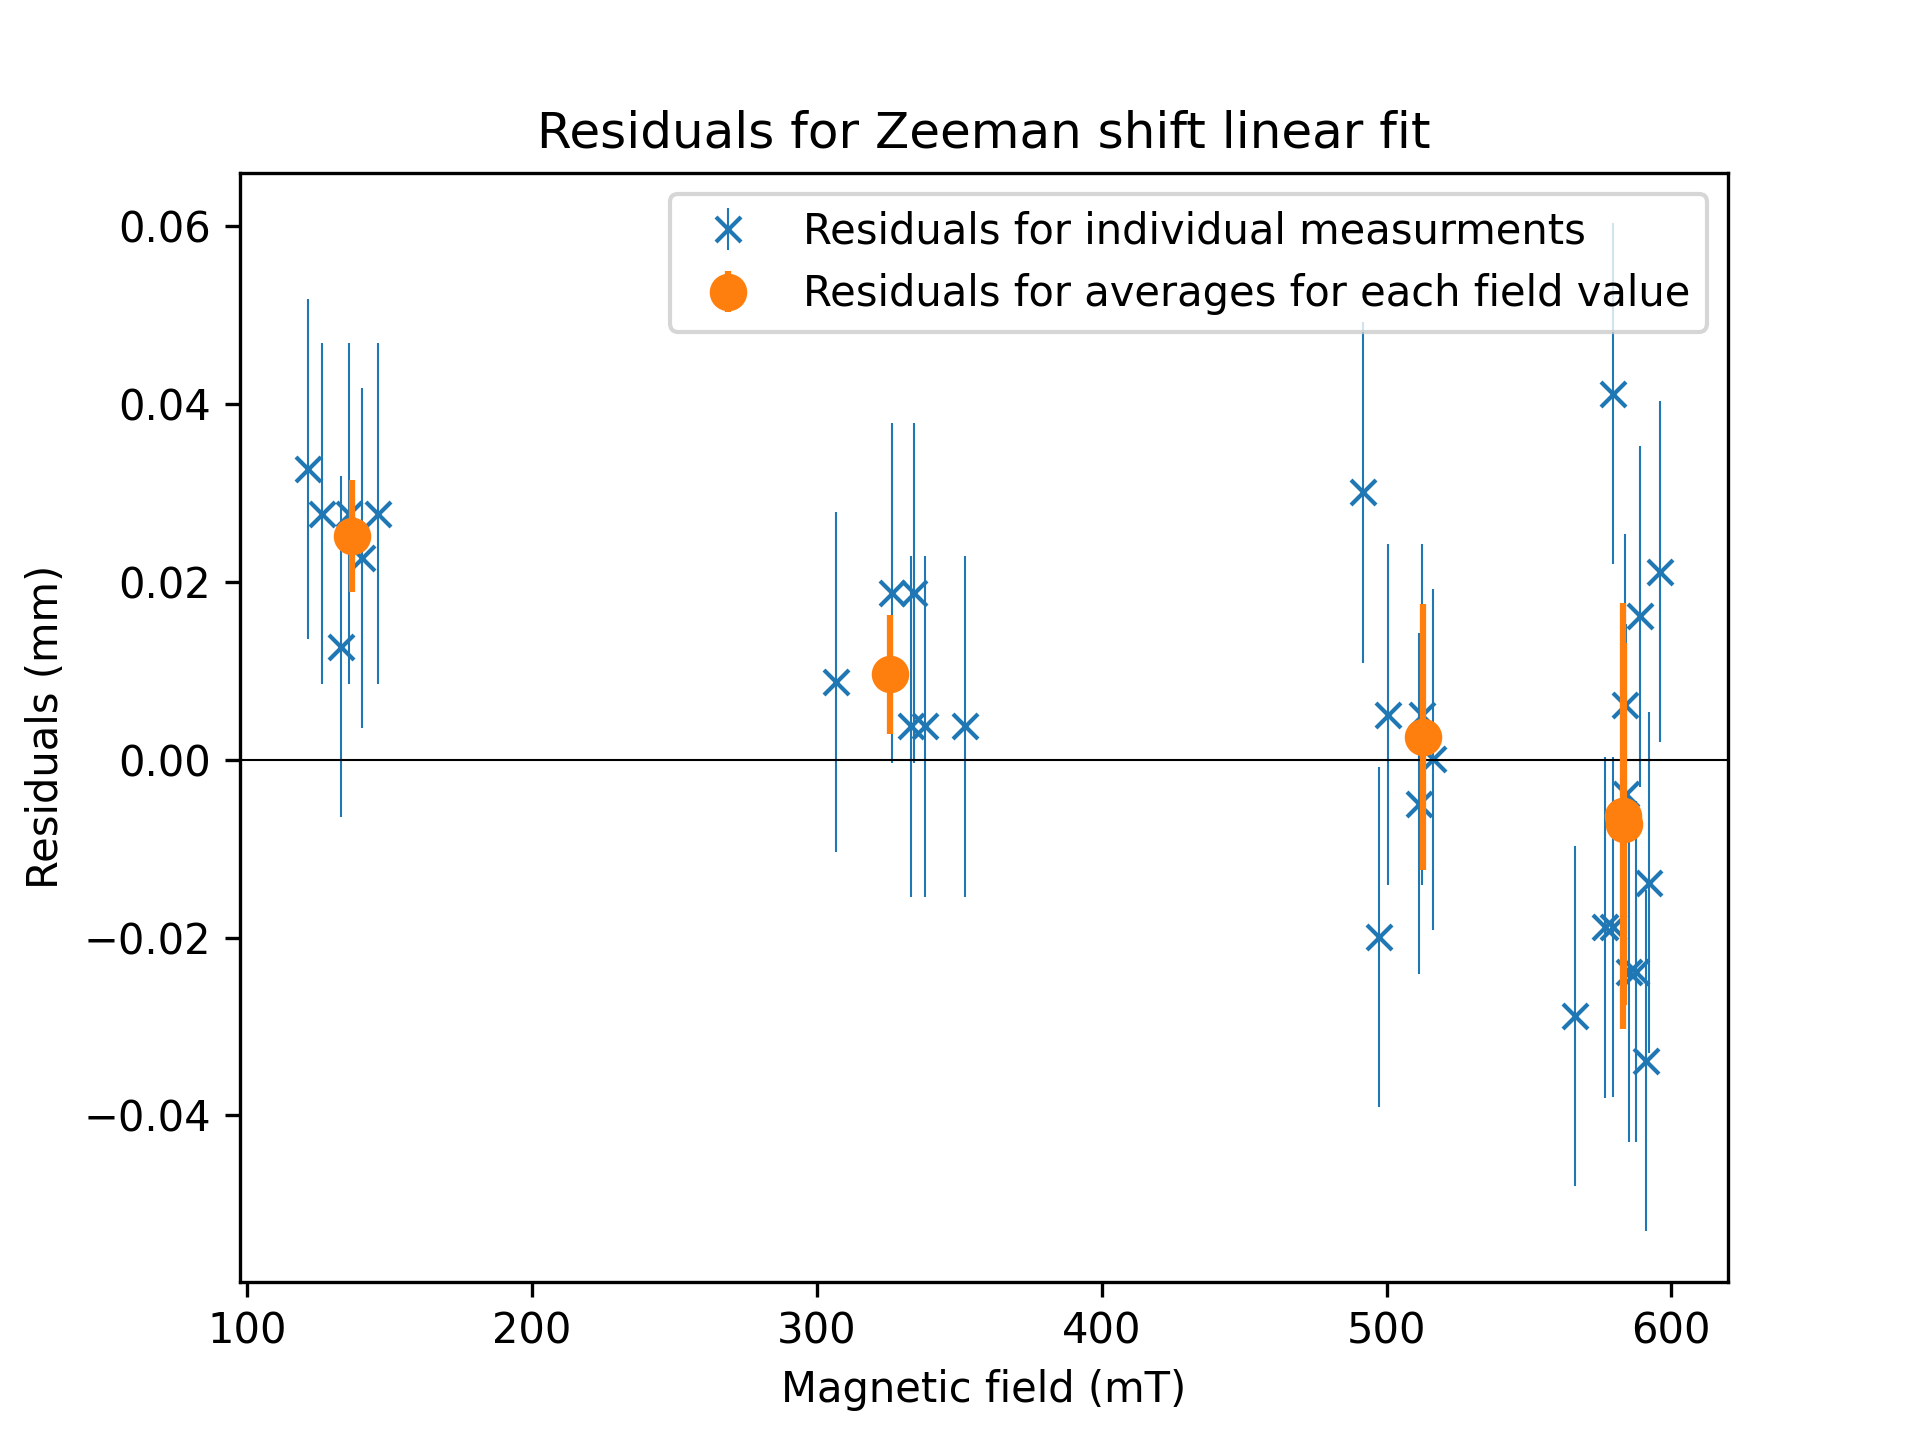
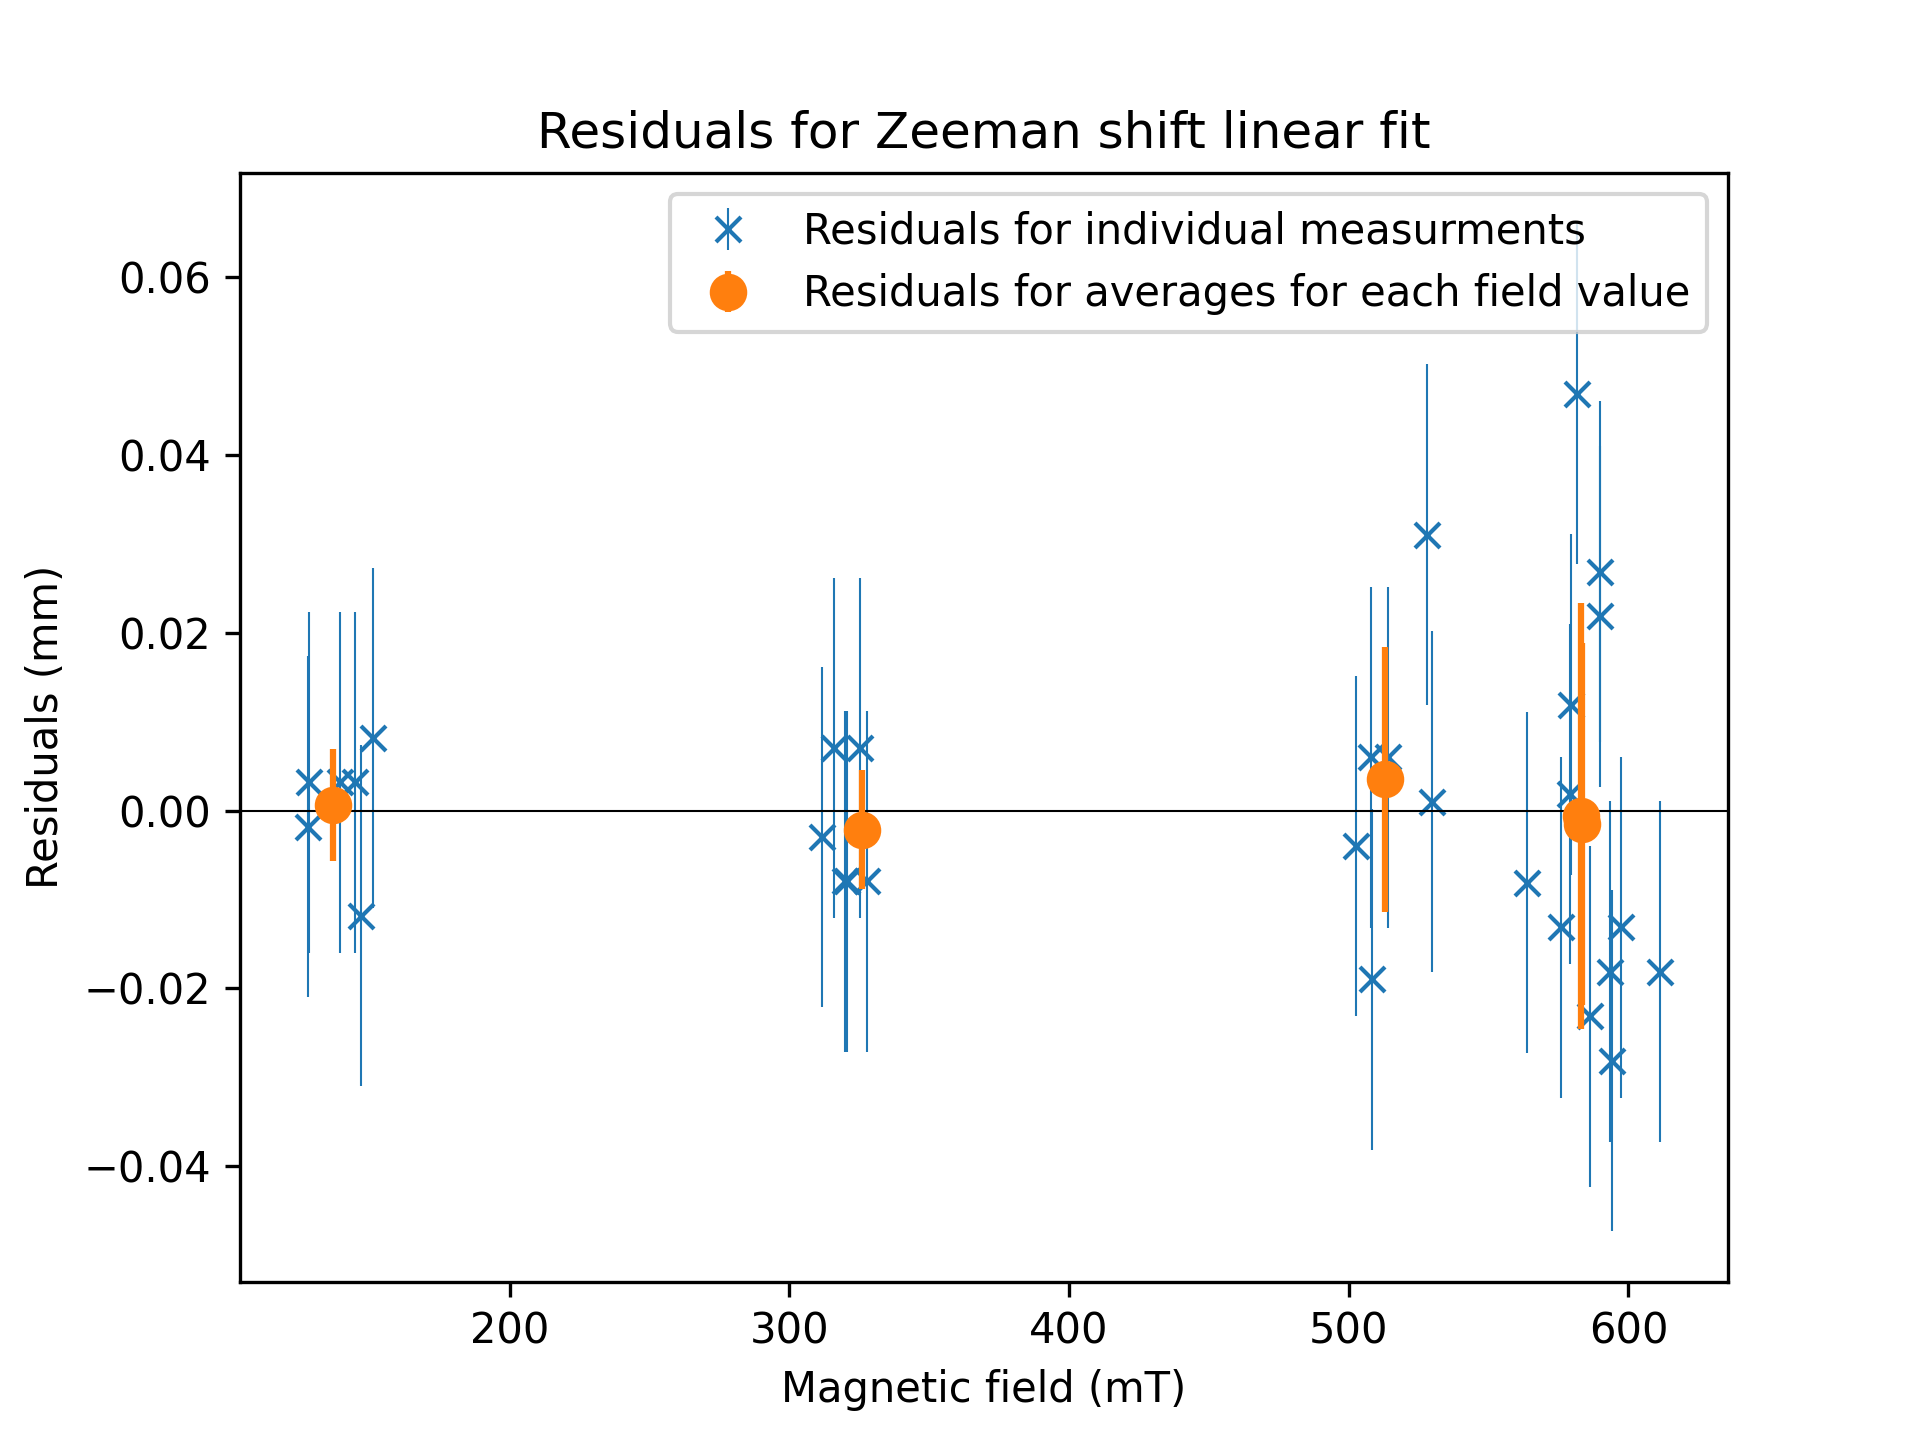
added fit parameters

diff --git a/Results/scripts/graphing/zeeman_shift_scatter.py b/Results/scripts/graphing/zeeman_shift_scatter.py
@@ -24,8 +24,8 @@ def chi_squared(expected, obtained, std_dev, degrees_freedom):
     print(f"Reduced chi squared: {reduced_chi_squared}")
 
 
-def fit_function(x, a):
-    return a * x
+def fit_function(x, a, b):
+    return a * x + b
 
 #################### linearity of field ####################
 
@@ -69,9 +69,10 @@ for key, value in fields.items():
 # slope, _ = linear_regression(all_fields, all_shifts, proportional=True)
 a_fit, cov = curve_fit(fit_function, all_fields, all_shifts)
 slope = a_fit[0]
+intercept = a_fit[1]
 slope_std = np.sqrt(cov[0, 0])
 x = np.linspace(min(all_fields), max(all_fields), 100)
-y = x * slope
+y = x * slope + intercept
 
 
 # add slight jiggle to the x values
@@ -104,12 +105,13 @@ fig, ax = plt.subplots()
 ax.margins(0.05)
 
 # residuals for all measurements:
-residuals = np.array(all_shifts) - np.array(all_fields) * slope
+residuals = np.array(all_shifts) - (np.array(all_fields) * slope + intercept)
 ax.errorbar(all_fields_jiggle, residuals, yerr=np.std(
     all_shifts), fmt='x', label='Residuals for individual measurments', ms=6, zorder=0, elinewidth=0.5)
 
 # residuals for the averages
-residuals = np.array(averages_shifts) - np.array(averages_fields) * slope
+residuals = np.array(averages_shifts) - \
+    (np.array(averages_fields) * slope + intercept)
 
 
 ax.errorbar(averages_fields, residuals, yerr=averages_std, fmt='o',
@@ -129,9 +131,10 @@ plt.savefig('Results/img/zeeman_shift_residuals.png', dpi=300)
 # get the slope and its uncertainty
 print(slope)
 print(f"Slope: {slope:.4e} \pm {slope_std:.4e}")
+print(f"Intercept: {intercept:.4e} \pm {np.sqrt(cov[1, 1]):.4e}")
 
 # get the chi squared
-chi_squared(all_shifts, np.array(all_fields) * slope, np.std(all_shifts), 1)
+chi_squared(all_shifts, np.array(all_fields) * slope, np.std(all_shifts), 2)
 
 
 # Calculate the e/m ratio

diff --git a/Appendix/Appendix.tex b/Appendix/Appendix.tex
@@ -1,6 +1,9 @@
 % Make appendix without number:
-\section*{Appendix}
+\section*{Appendices}
+
+\subsection{Appendix 1: Magnetic Field Intensity Measurements}
 \label{sec:appendix}
+
 This appendix contains the tabulated raw data obtained from the experiment:
 \begin{table}
     \begin{adjustwidth}{-130pt}{-130pt}
@@ -239,3 +242,26 @@ This appendix contains the tabulated raw data obtained from the experiment:
     \caption{Zeeman shift measurments for trial 5: 16A current}
 
 \end{table}
+
+
+
+\subsection{Part 2: Error and uncertainty propagation}
+\label{sec:appendix_uncertainty}
+
+This appendix contains the calculations for the uncertainty propagation in the experiment.
+
+\subsubsection{Part 1: Magnetic Field Intensity Measurements}
+
+The uncertainty for the individual current measurments was the precision of the instrument used:
+
+\begin{equation}
+    \Delta I = 0.5 A
+\end{equation}
+
+\begin{equation}
+    \Delta E = 0.5 mT
+\end{equation}
+
+These uncertianty valuers are relfected as errorbars in the plots in the Results section.
+
+For the averages for each trial, the uncertainty is the standard deviation of the measurements.

diff --git a/Results/Results.tex b/Results/Results.tex
@@ -26,7 +26,7 @@ The linear fit has a reduced chi-squared value of 13.3, which is quite high and 
 
 \subsection{Part 2: Observing the linearity of the Zeeman shift with respect to the field strength}
 
-Now, we plot the previously obtained values in a scatter plot and compare it to a linear fit.
+Now, we plot the previously obtained values in a scatter plot and compare it to a linear fit of the form $y = mx + b$.
 
 \begin{figure}
     \centering
@@ -41,7 +41,7 @@ Now, we plot the previously obtained values in a scatter plot and compare it to 
 \end{figure}
 
 The slope of the linear fit is obtained to be:
-$1.2660e-04 \pm 8.2711e-06 \frac{m}{T}$
+$5.8870e-05 \pm 1.7648e-05 + 3.3781e-02 \pm 8.1574e-03 \frac{m}{T}$
 
 The Chi squared value is $34.6$, and the reduced Chi squared value is $1.19$, which indicated a good fit.
 
